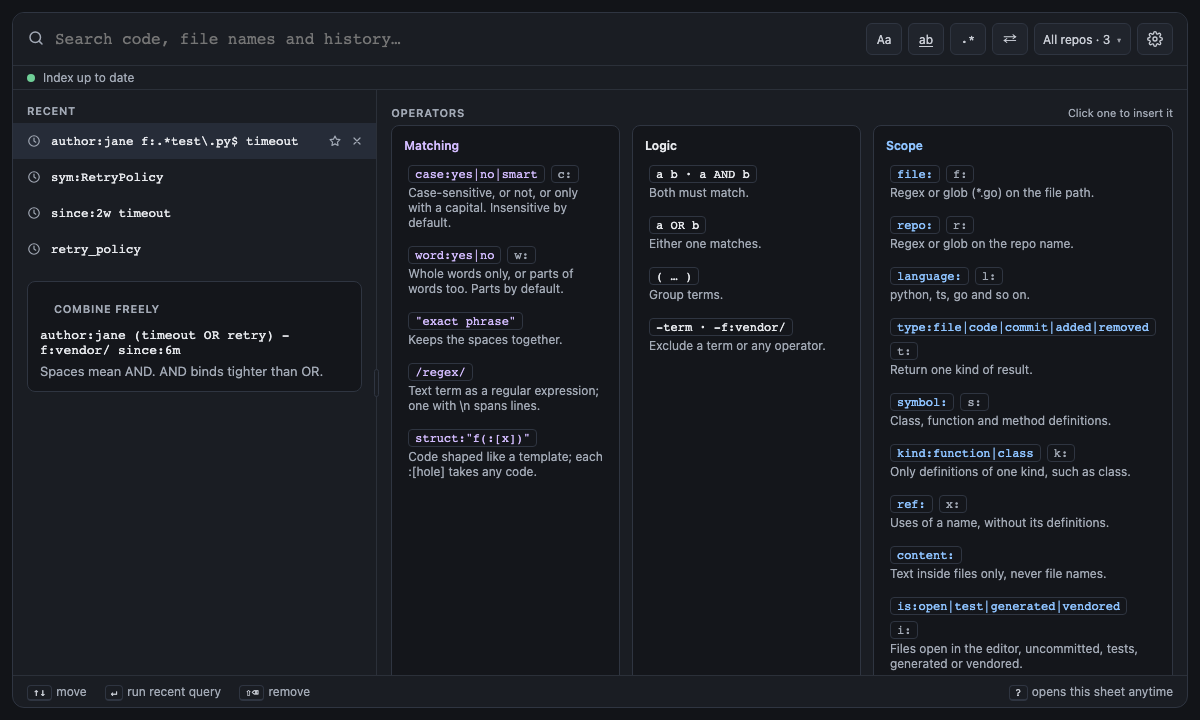
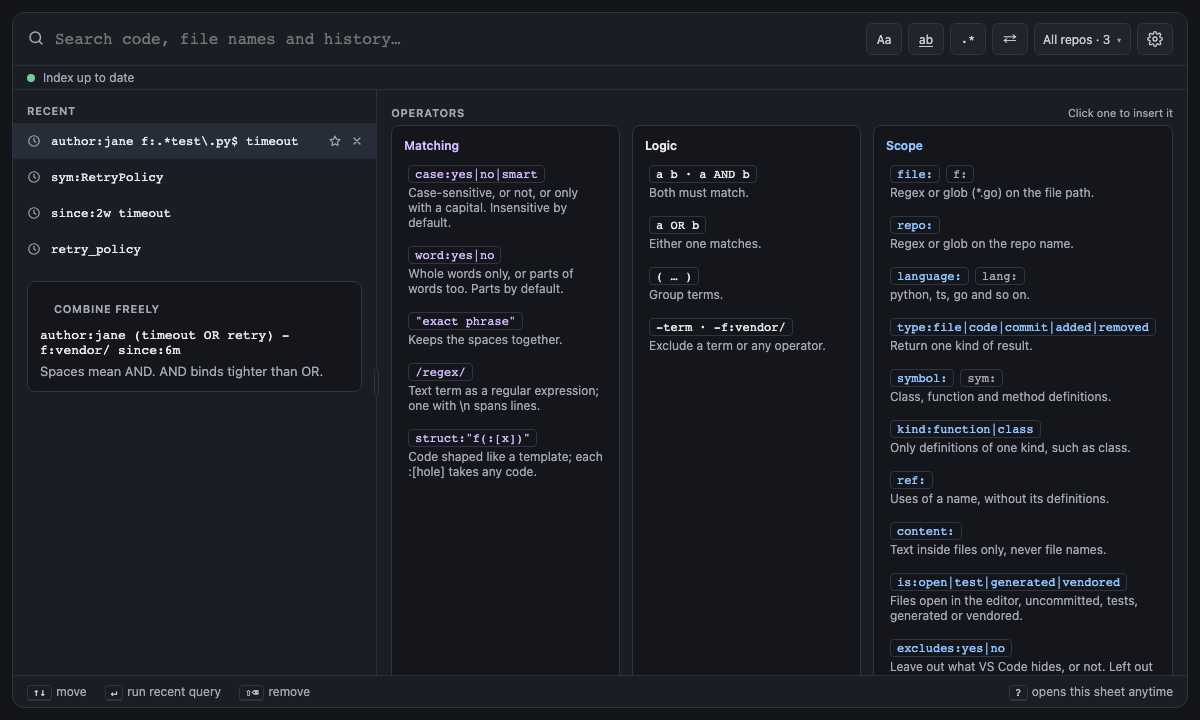
docs: describe the five short names and retake the operator screenshots

Changed region(s): [[0.74, 0.4583, 0.9558, 0.9472], [0.8325, 0.3667, 0.8633, 0.3972]]

diff --git a/docs/dev/implementation-plan.md b/docs/dev/implementation-plan.md
@@ -99,10 +99,10 @@ andExpr  = unary { [ "AND" ] unary } ;       (* a space is an implicit AND *)
 unary    = [ "-" ] primary ;
 primary  = "(" orExpr ")" | operator | term ;
 operator = name ":" value ;
-name     = "f" | "file" | "r" | "repo" | "l" | "language" | "lang"
-         | "t" | "type" | "s" | "symbol" | "sym" | "a" | "author"
-         | "m" | "message" | "msg" | "d" | "since" | "u" | "until" | "c" | "case"
-         | "n" | "count" ;
+name     = "f" | "file" | "repo" | "language" | "lang"
+         | "type" | "symbol" | "sym" | "a" | "author"
+         | "message" | "msg" | "since" | "until" | "case"
+         | "count" ;
 value    = quoted | regex | bare ;
 term     = quoted | regex | bare ;
 quoted   = '"' { char | '\\"' } '"' ;
@@ -112,9 +112,9 @@ bare     = 1*( any char except space, "(", ")", '"' ) ;
 
 ### Lexical rules
 
-- Every operator has a full name and a one-letter short name: `file:` `f:`, `repo:` `r:`, `language:` `l:`,
-  `type:` `t:`, `symbol:` `s:`, `author:` `a:`, `message:` `m:`, `since:` `d:`, `until:` `u:`, `case:` `c:`,
-  `count:` `n:`. The older `lang:`, `sym:` and `msg:` still work. Suggestions and help show the full name.
+- Every operator has a full name. Five also have a short name: `file:` `f:`, `author:` `a:`, `symbol:` `sym:`,
+  `language:` `lang:`, `message:` `msg:`. The one-letter names the others once had (`s:`, `i:`, `d:` …) and `path:`
+  are unknown operators whose fix offers the full name. Suggestions and help show the full name.
 - `AND` and `OR` are keywords only in uppercase. Lowercase `or` is a search term.
 - AND binds tighter than OR. `a b OR c` means `(a b) OR c`.
 - A word shaped like `name:` with an unknown name is an error, not a term. Quoting it (`"sinse:6m"`) makes it a term.

diff --git a/README.md b/README.md
@@ -18,10 +18,9 @@ removed `timeout` or `retry`. Drop `author:` and the same box searches current f
 ## What it does
 
 - **One query language.** Combine words, `"phrases"`, `/regex/`, `AND`, `OR`, `( )` and `-exclusions` (or `NOT`) with
-  operators. Each has a full name and a one-letter short one: `file:` / `f:`, `repo:` / `r:`, `language:` / `l:`,
-  `type:` / `t:`, `symbol:` / `s:`, `kind:` / `k:`, `ref:` / `x:`, `is:` / `i:`, `author:` / `a:`, `message:` / `m:`,
-  `since:` / `d:`, `until:` / `u:`, `case:` / `c:`, `word:` / `w:`, `count:` / `n:`, `order:` / `o:`, plus
-  `content:`, `owner:`, `struct:` and `at:`, and `path:` for `file:`. `is:open`, `is:changed`, `is:test`, `is:generated`
+  operators: `file:` / `f:`, `author:` / `a:`, `symbol:` / `sym:`, `language:` / `lang:`, `message:` / `msg:`,
+  `repo:`, `type:`, `kind:`, `ref:`, `is:`, `since:`, `until:`, `case:`, `word:`, `count:`, `order:`, `content:`,
+  `owner:`, `struct:`, `excludes:` and `at:`. `is:open`, `is:changed`, `is:test`, `is:generated`
   and `is:vendored` keep the files open in the editor, the uncommitted ones, the tests, the ones a tool wrote or the
   ones copied in, so
   `-is:generated -is:vendored` keeps a replace to code you wrote, `word:yes` matches whole words only, `case:smart`

diff --git a/CHANGELOG.md b/CHANGELOG.md
@@ -58,6 +58,12 @@ All notable changes to this project are documented here. The format follows
   whose names contain "parse", not every function in a file that mentions it. `content:parse` still matches the file's
   text.
 
+### Changed
+
+- Only `file:`, `author:`, `symbol:`, `language:` and `message:` keep a short name, and it reads: `f:`, `a:`,
+  `sym:`, `lang:` and `msg:`. The other one-letter names (`s:`, `i:`, `d:`, `r:` …) and `path:` are gone; typing one
+  says **Unknown operator s: (now symbol:)** and the fix changes it to the full name.
+
 ## [2.0.0] - 2026-10-10
 
 ### Added
